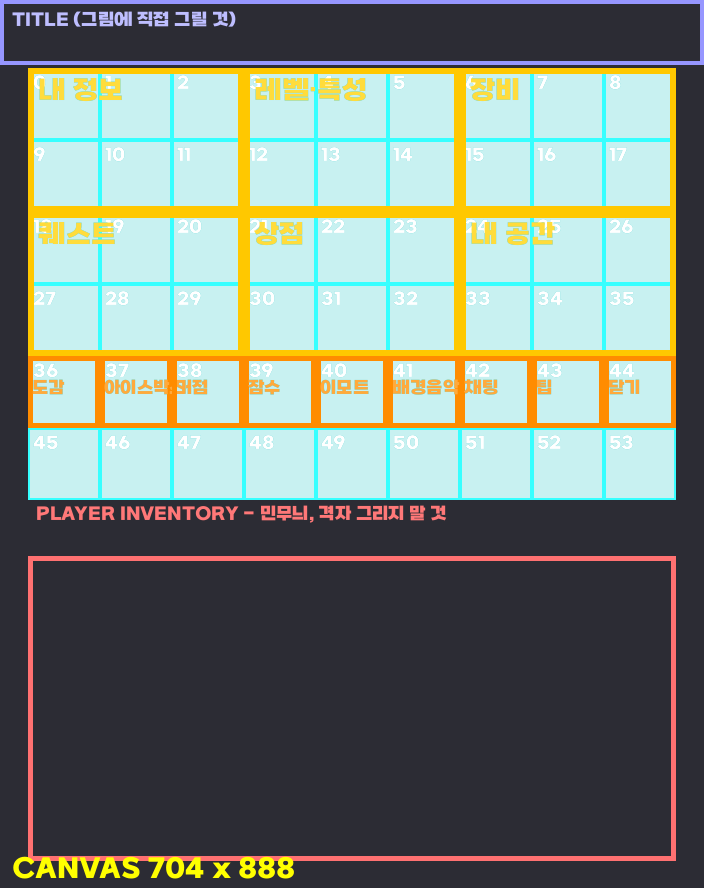
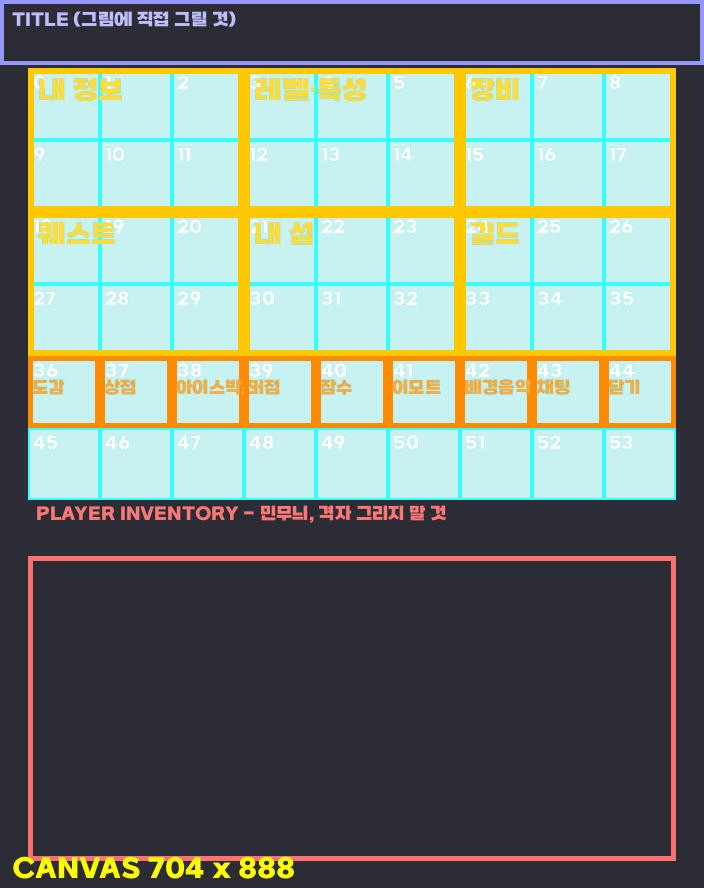
메뉴 타일 확정 — 섬·길드는 각자 타일, 상점을 아이콘으로
섬·길드를 '내 공간'으로 묶으면 메뉴→내 공간→길드→길드설정 으로 4단계가 된다.
둘 다 이미 자체 서브시스템(길드: 목록·랭킹·설정·업그레이드·기여랭킹·요리 /
섬: 워프·업그레이드·인원·권한)이라 위에 선택 화면을 얹는 건 손해.
대신 얕은 상점(특수 재화 3종)을 아이콘으로 내렸다 — 애초에 허브라 아이콘→허브가 자연스럽다.

  타일: 내 정보 · 레벨·특성 · 장비 / 퀘스트 · 내 섬 · 길드
  아이콘: 도감 상점 아이스박스 거점 잠수 이모트 배경음악 채팅 닫기 (9칸 꽉)

diff --git a/gui-forge/make_menu_layout.py b/gui-forge/make_menu_layout.py
@@ -36,13 +36,17 @@ GRID_X, GRID_Y, CELL, COLS = 7, 17, 18, 9
 
 # 타일: (라벨, 시작열, 시작행). 2열x2행 고정. 가운데 열(4)은 비운다.
 TILE_COLS = [0, 3, 6]
+# ★섬·길드를 '내 공간'으로 묶지 않는다 — 둘 다 자체 서브시스템(길드: 목록·랭킹·설정·
+#   업그레이드·기여랭킹·요리 / 섬: 워프·업그레이드·인원·권한)이라, 위에 선택 화면을
+#   얹으면 메뉴→내 공간→길드→길드설정 으로 4단계가 된다.
+#   대신 얕은 '상점'(특수 재화 3종)을 아이콘으로 내렸다.
 TILES = [
     ("내 정보", 0, 0), ("레벨·특성", 3, 0), ("장비", 6, 0),
-    ("퀘스트", 0, 2), ("상점", 3, 2), ("내 공간", 6, 2),
+    ("퀘스트", 0, 2), ("내 섬", 3, 2), ("길드", 6, 2),
 ]
 # 4행을 9칸 꽉 채운다 — 한 칸이라도 비면 다시 골이 생긴다.
-ICONS = [("도감", 36), ("아이스박스", 37), ("거점", 38), ("잠수", 39), ("이모트", 40),
-         ("배경음악", 41), ("채팅", 42), ("팁", 43)]
+ICONS = [("도감", 36), ("상점", 37), ("아이스박스", 38), ("거점", 39), ("잠수", 40),
+         ("이모트", 41), ("배경음악", 42), ("채팅", 43)]
 SLOT_CLOSE = 44
 
 

diff --git a/gui-forge/codex-brief-menu.md b/gui-forge/codex-brief-menu.md
@@ -32,7 +32,7 @@
 ```
 제목 띠      art y 0~67      "MENU" 금박
 타일 3개     art y 68~211    내 정보 · 레벨·특성 · 장비
-타일 3개     art y 212~355   퀘스트 · 상점 · 내 공간
+타일 3개     art y 212~355   퀘스트 · 내 섬 · 길드
 아이콘 9칸   art y 356~427   한 줄 꽉 (한 칸도 비우지 말 것)
 장식 푸터    art y 428~499   버튼 없음
 인벤 패널    art y 556~859   민무늬
@@ -62,8 +62,8 @@
 | 2 | **레벨·특성** | 별 · 성장 나무 |
 | 3 | **장비** | 모루 · 낚싯대 |
 | 4 | **퀘스트** | 두루마리 |
-| 5 | **상점** | 동전 주머니 |
-| 6 | **내 공간** | 야자수 섬 + 깃발 |
+| 5 | **내 섬** | 야자수 섬 |
+| 6 | **길드** | 깃발 |
 
 - 타일이 3칸(≈54px GUI)로 넓어져 **아이콘 + 글자를 나란히** 두기 좋다.
 - 아이콘은 **단색 실루엣~2톤**으로 단순하게. 세밀하면 실제 크기에서 뭉갠다.
